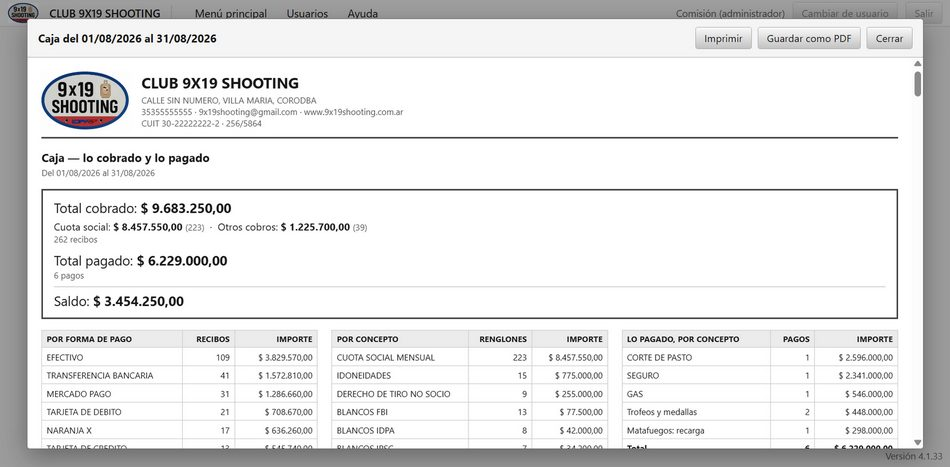
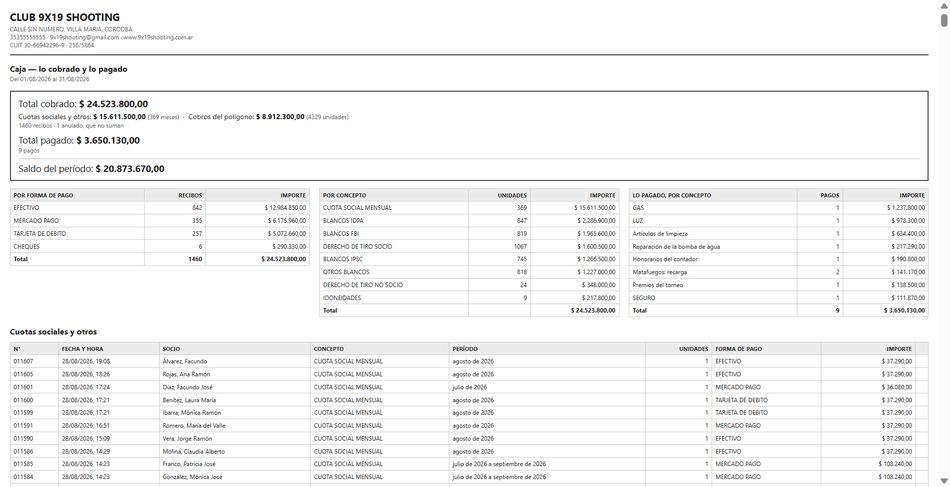
Club: las seis capturas, sacadas con la 4.3.10
Las cinco que quedaban eran de la 4.1.33. Salen del programa andando
contra la base de prueba, como las anteriores.

La del poligono ahora muestra "Lo que esta abierto" —todas las cuentas
del club— y la de caja el listado con los desgloses por forma de pago y
por concepto. Los alt dicen lo que se ve.

Changed region(s): [[0.0, 0.0, 1.0, 1.0], [0.8242, 0.8994, 0.8547, 0.9293], [0.5495, 0.5996, 0.58, 0.6296]]

diff --git a/club/index.html b/club/index.html
@@ -223,23 +223,23 @@
         <figcaption>El menú, con los números del día</figcaption>
       </figure>
       <figure>
-        <img src="../assets/capturas-club/vencimientos.jpg" alt="Pantalla de vencimientos: socios al día, con la cuota atrasada y con papeles por vencer" loading="lazy">
+        <img src="../assets/capturas-club/vencimientos.jpg?v=4.3.10" alt="Pantalla de vencimientos: socios al día, con la cuota atrasada y con papeles por vencer" loading="lazy">
         <figcaption>Quién debe y a quién avisarle</figcaption>
       </figure>
       <figure>
-        <img src="../assets/capturas-club/cuota.jpg" alt="Pantalla para cobrar la cuota social de un socio" loading="lazy">
+        <img src="../assets/capturas-club/cuota.jpg?v=4.3.10" alt="Pantalla para cobrar la cuota social de un socio" loading="lazy">
         <figcaption>Cobrar la cuota</figcaption>
       </figure>
       <figure>
-        <img src="../assets/capturas-club/poligono.jpg" alt="La cuenta abierta de un socio en el polígono, con lo que consumió y el total a cobrar" loading="lazy">
+        <img src="../assets/capturas-club/poligono.jpg?v=4.3.10" alt="Pantalla del polígono, con las cuentas abiertas de quienes están tirando y lo que cada uno lleva consumido" loading="lazy">
         <figcaption>La cuenta del polígono</figcaption>
       </figure>
       <figure>
-        <img src="../assets/capturas-club/caja.jpg" alt="Listado de caja con el total cobrado, el saldo inicial, lo pagado y el saldo" loading="lazy">
+        <img src="../assets/capturas-club/caja.jpg?v=4.3.10" alt="Listado de caja del mes: total cobrado, total pagado y saldo, con el desglose por forma de pago y por concepto" loading="lazy">
         <figcaption>La caja del mes</figcaption>
       </figure>
       <figure>
-        <img src="../assets/capturas-club/cheques.jpg" alt="Listado de cheques de terceros en cartera, ordenados por vencimiento" loading="lazy">
+        <img src="../assets/capturas-club/cheques.jpg?v=4.3.10" alt="Listado de cheques de terceros en cartera, ordenados por vencimiento" loading="lazy">
         <figcaption>Los cheques en cartera</figcaption>
       </figure>
     </div>
